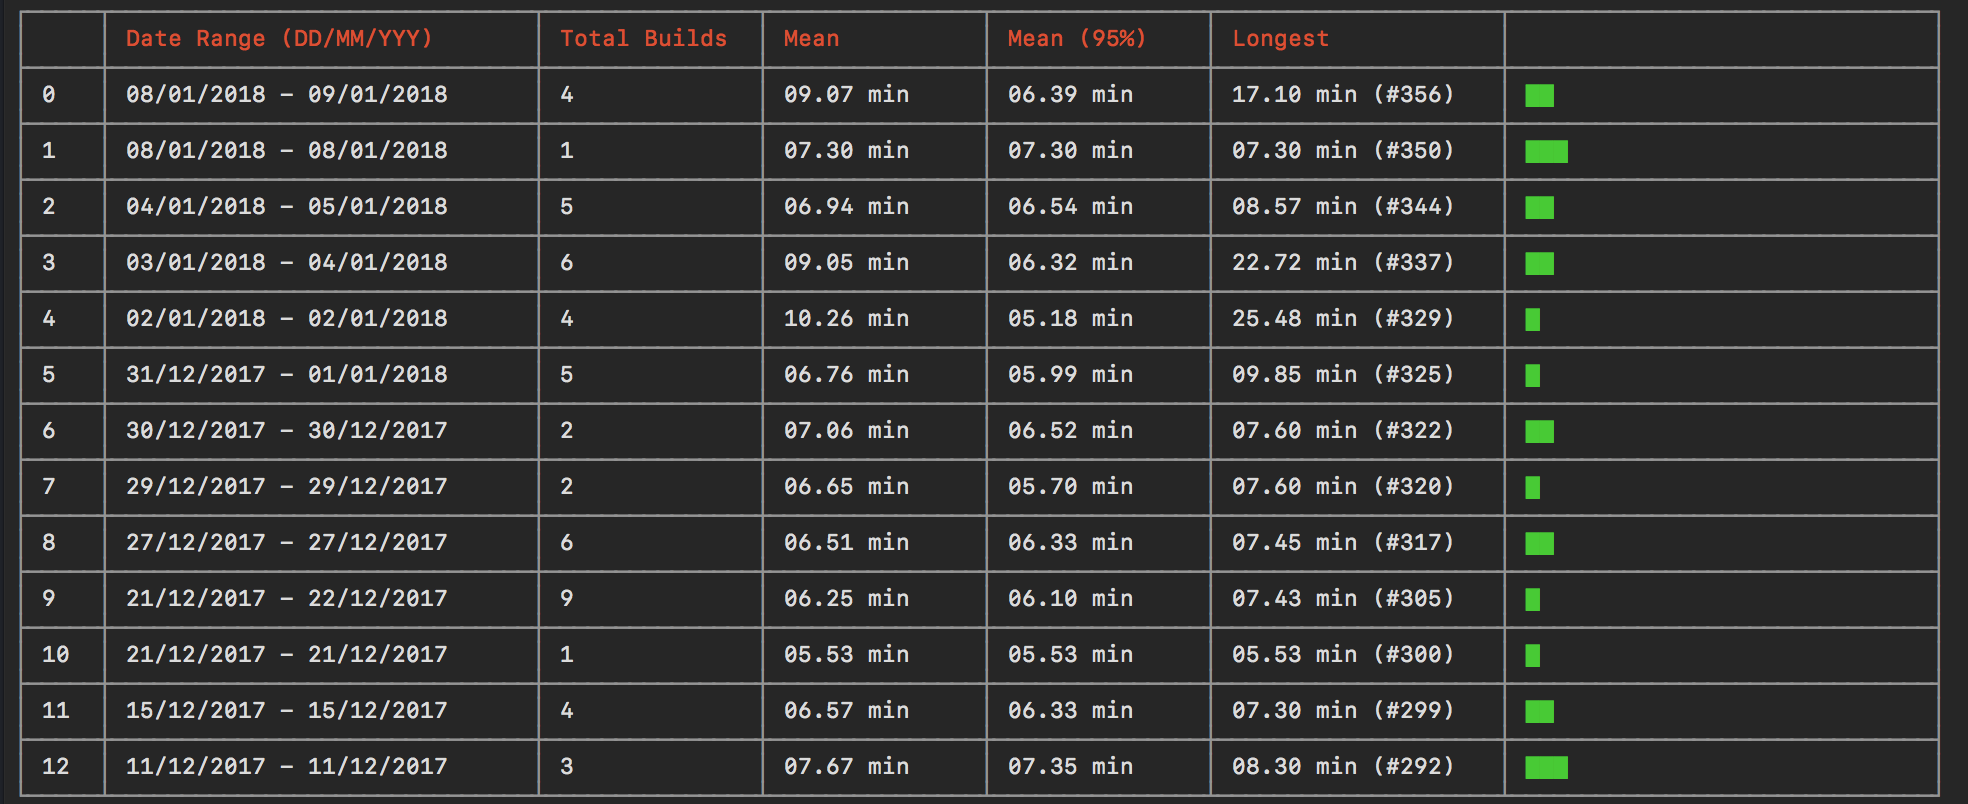
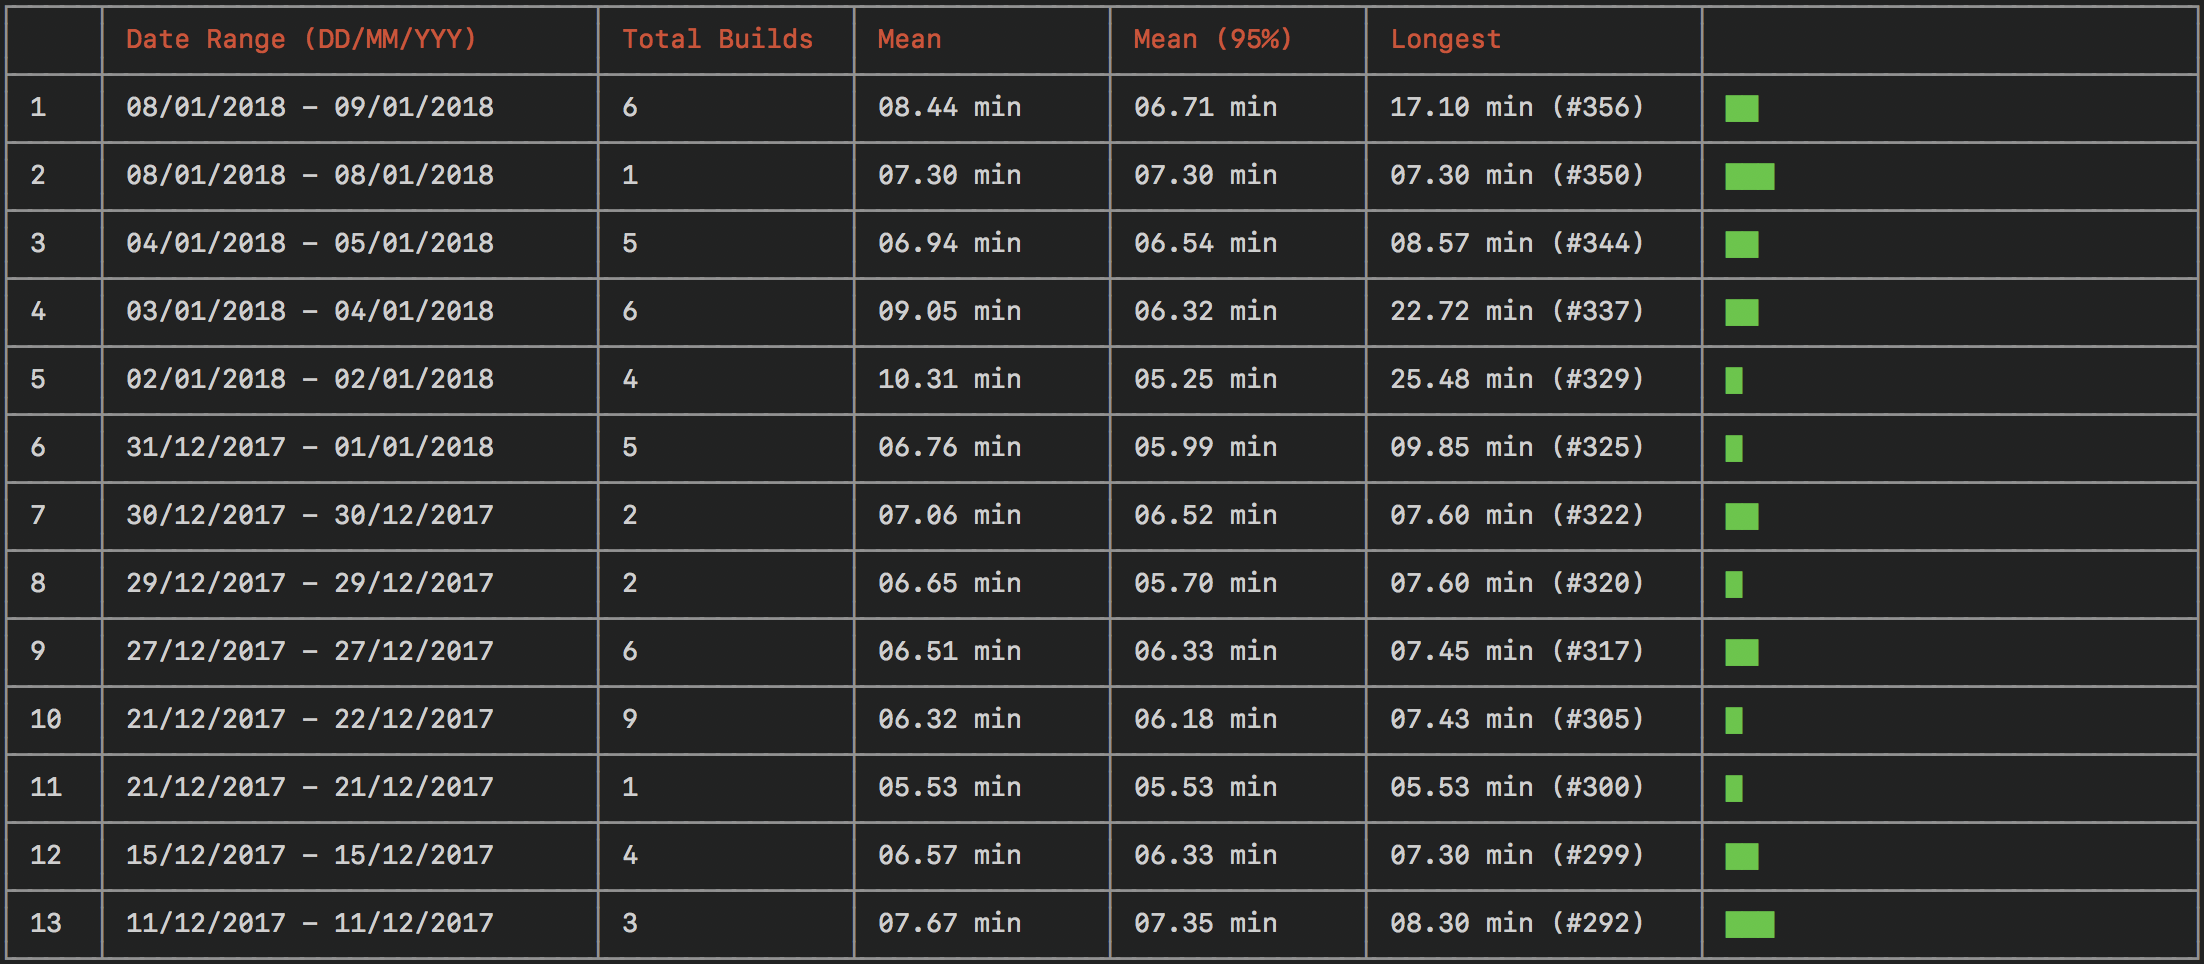
serial number fix and udpated preview image on readme

diff --git a/lib/commands/calculate.js b/lib/commands/calculate.js
@@ -162,7 +162,7 @@ async function calculate({
   data.ranges.map((range, index) =>
     range.SUCCESSFUL &&
     table.push([
-      index,
+      (index + 1),
       range.SUCCESSFUL.dateRange.join(' - '),
       range.SUCCESSFUL.totalBuilds,
       `${leftPad((range.SUCCESSFUL.buildDurationMean / 60).toFixed(2), 5, "0")} min`,

diff --git a/README.md b/README.md
@@ -2,7 +2,7 @@
 
 > Get the stats of your pipeline.
 
-![preview](preview.png)
+![preview](https://raw.githubusercontent.com/ajaymathur/build-stats/master/preview.png)
 
 ## Install
 
